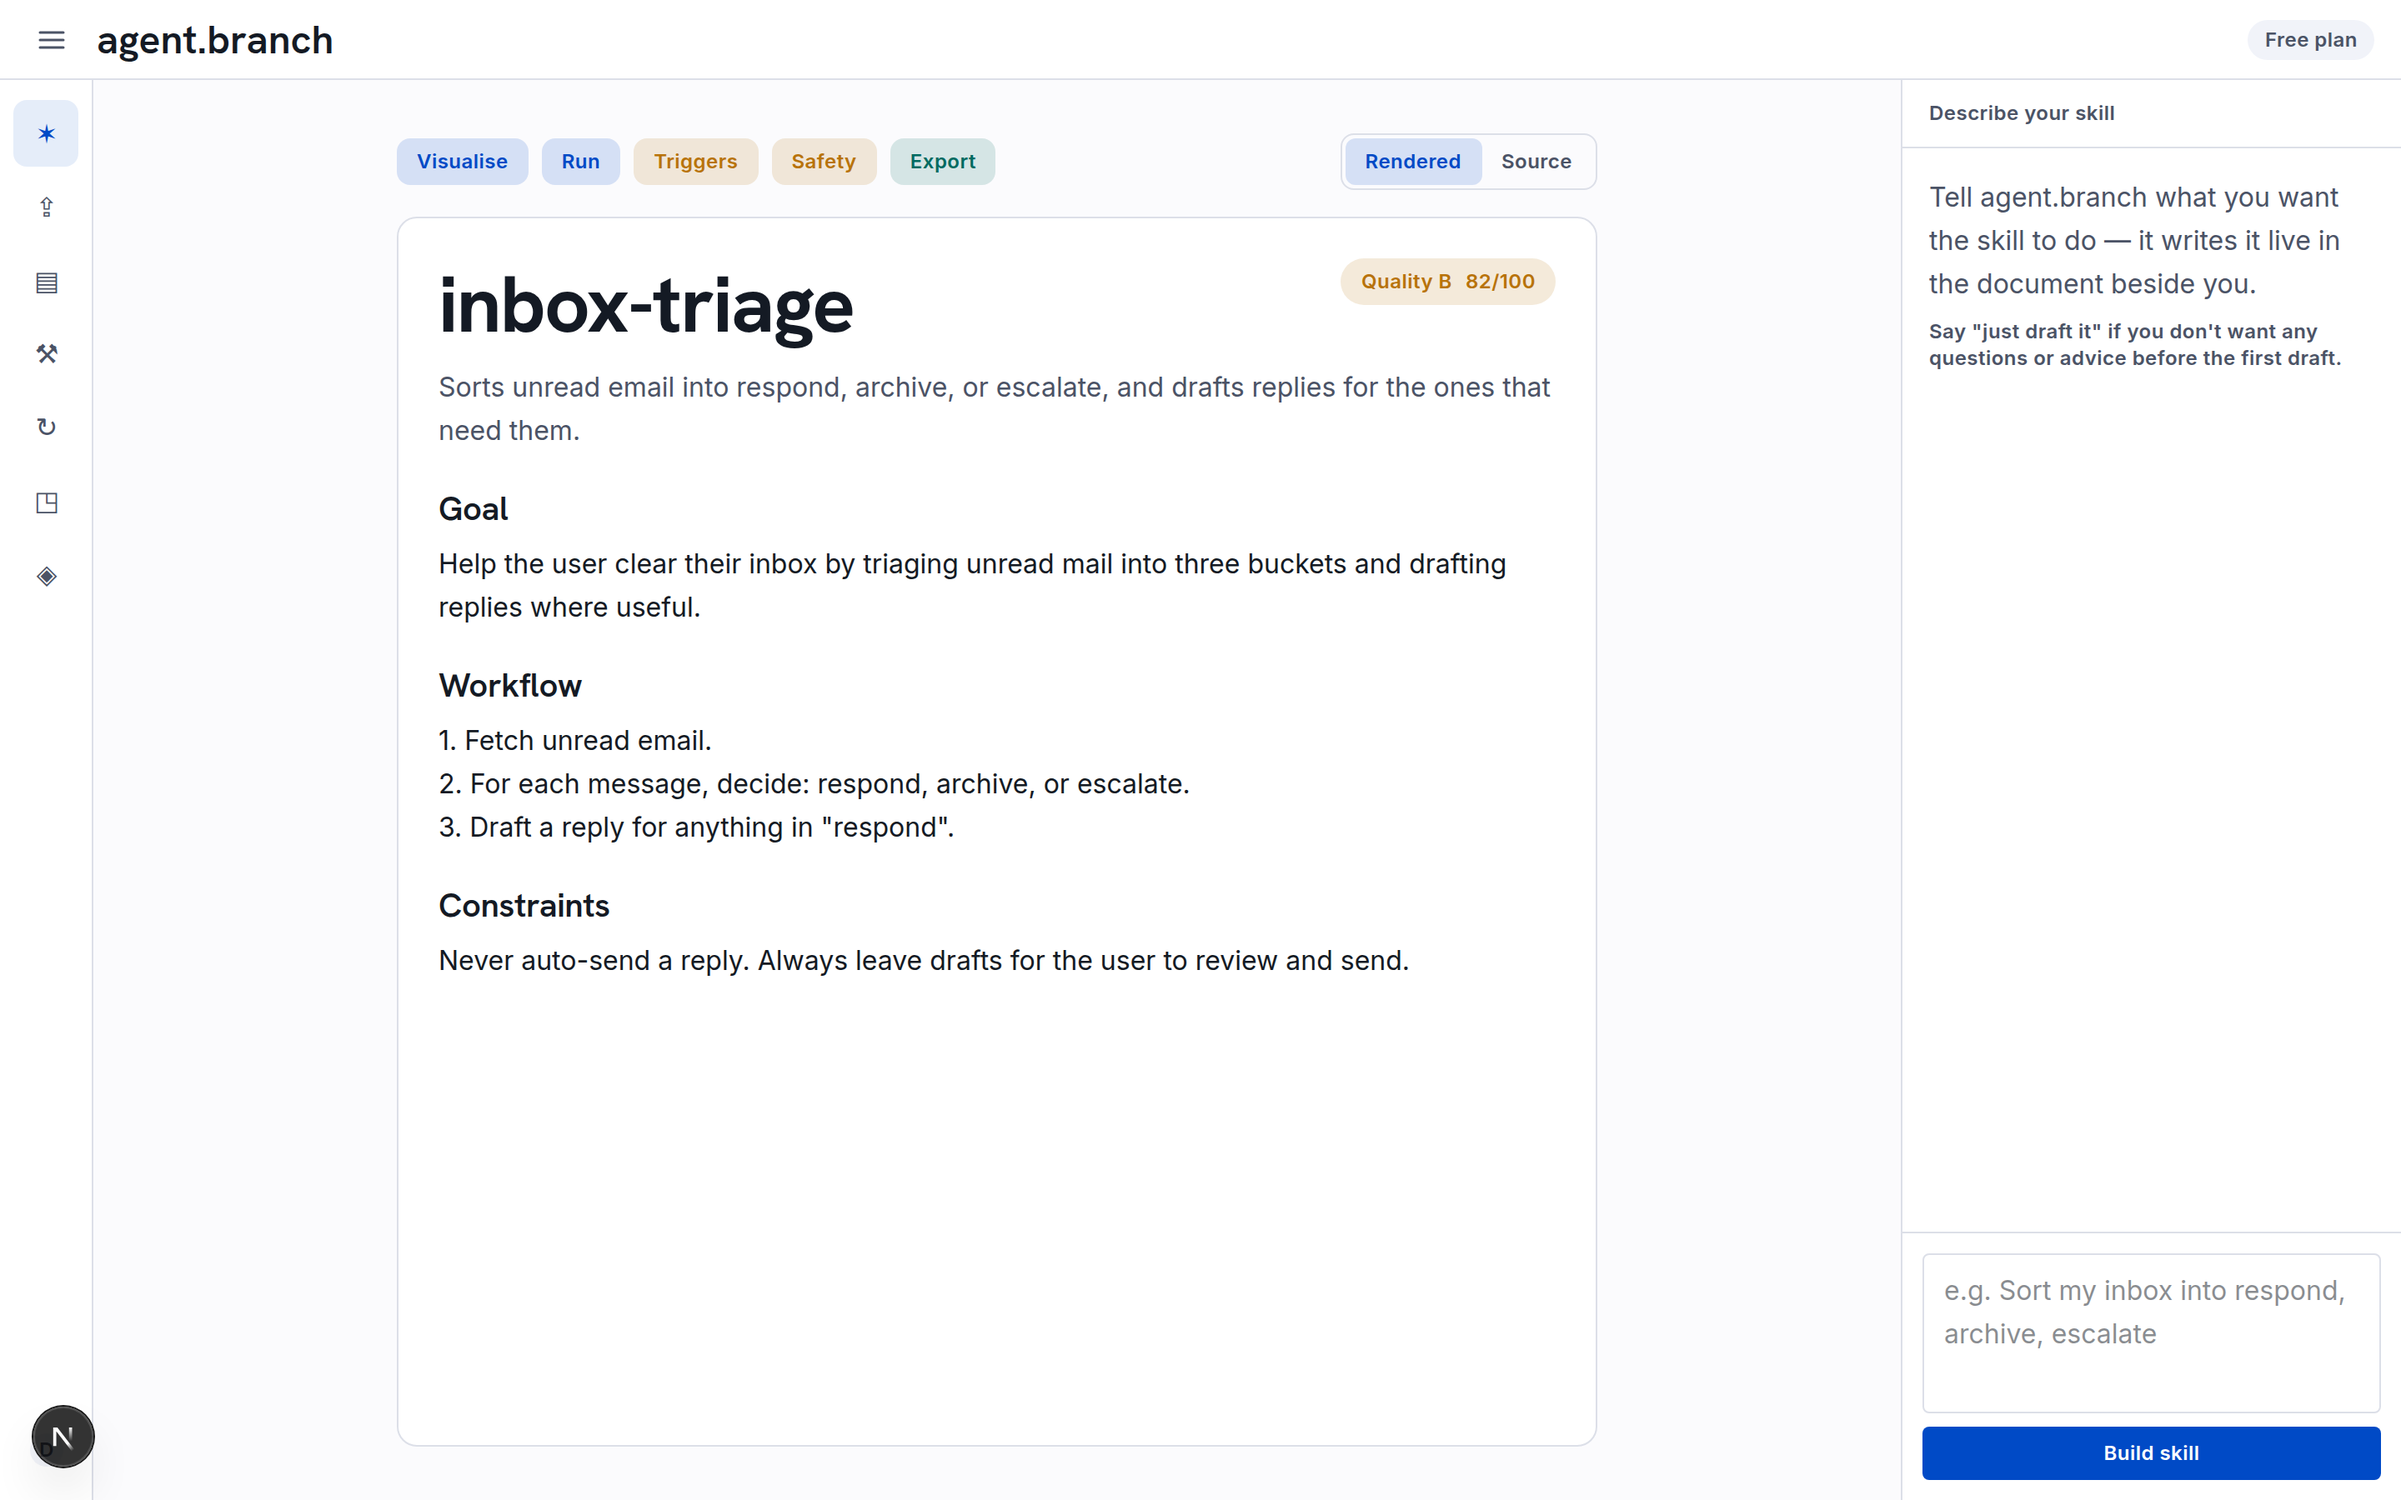
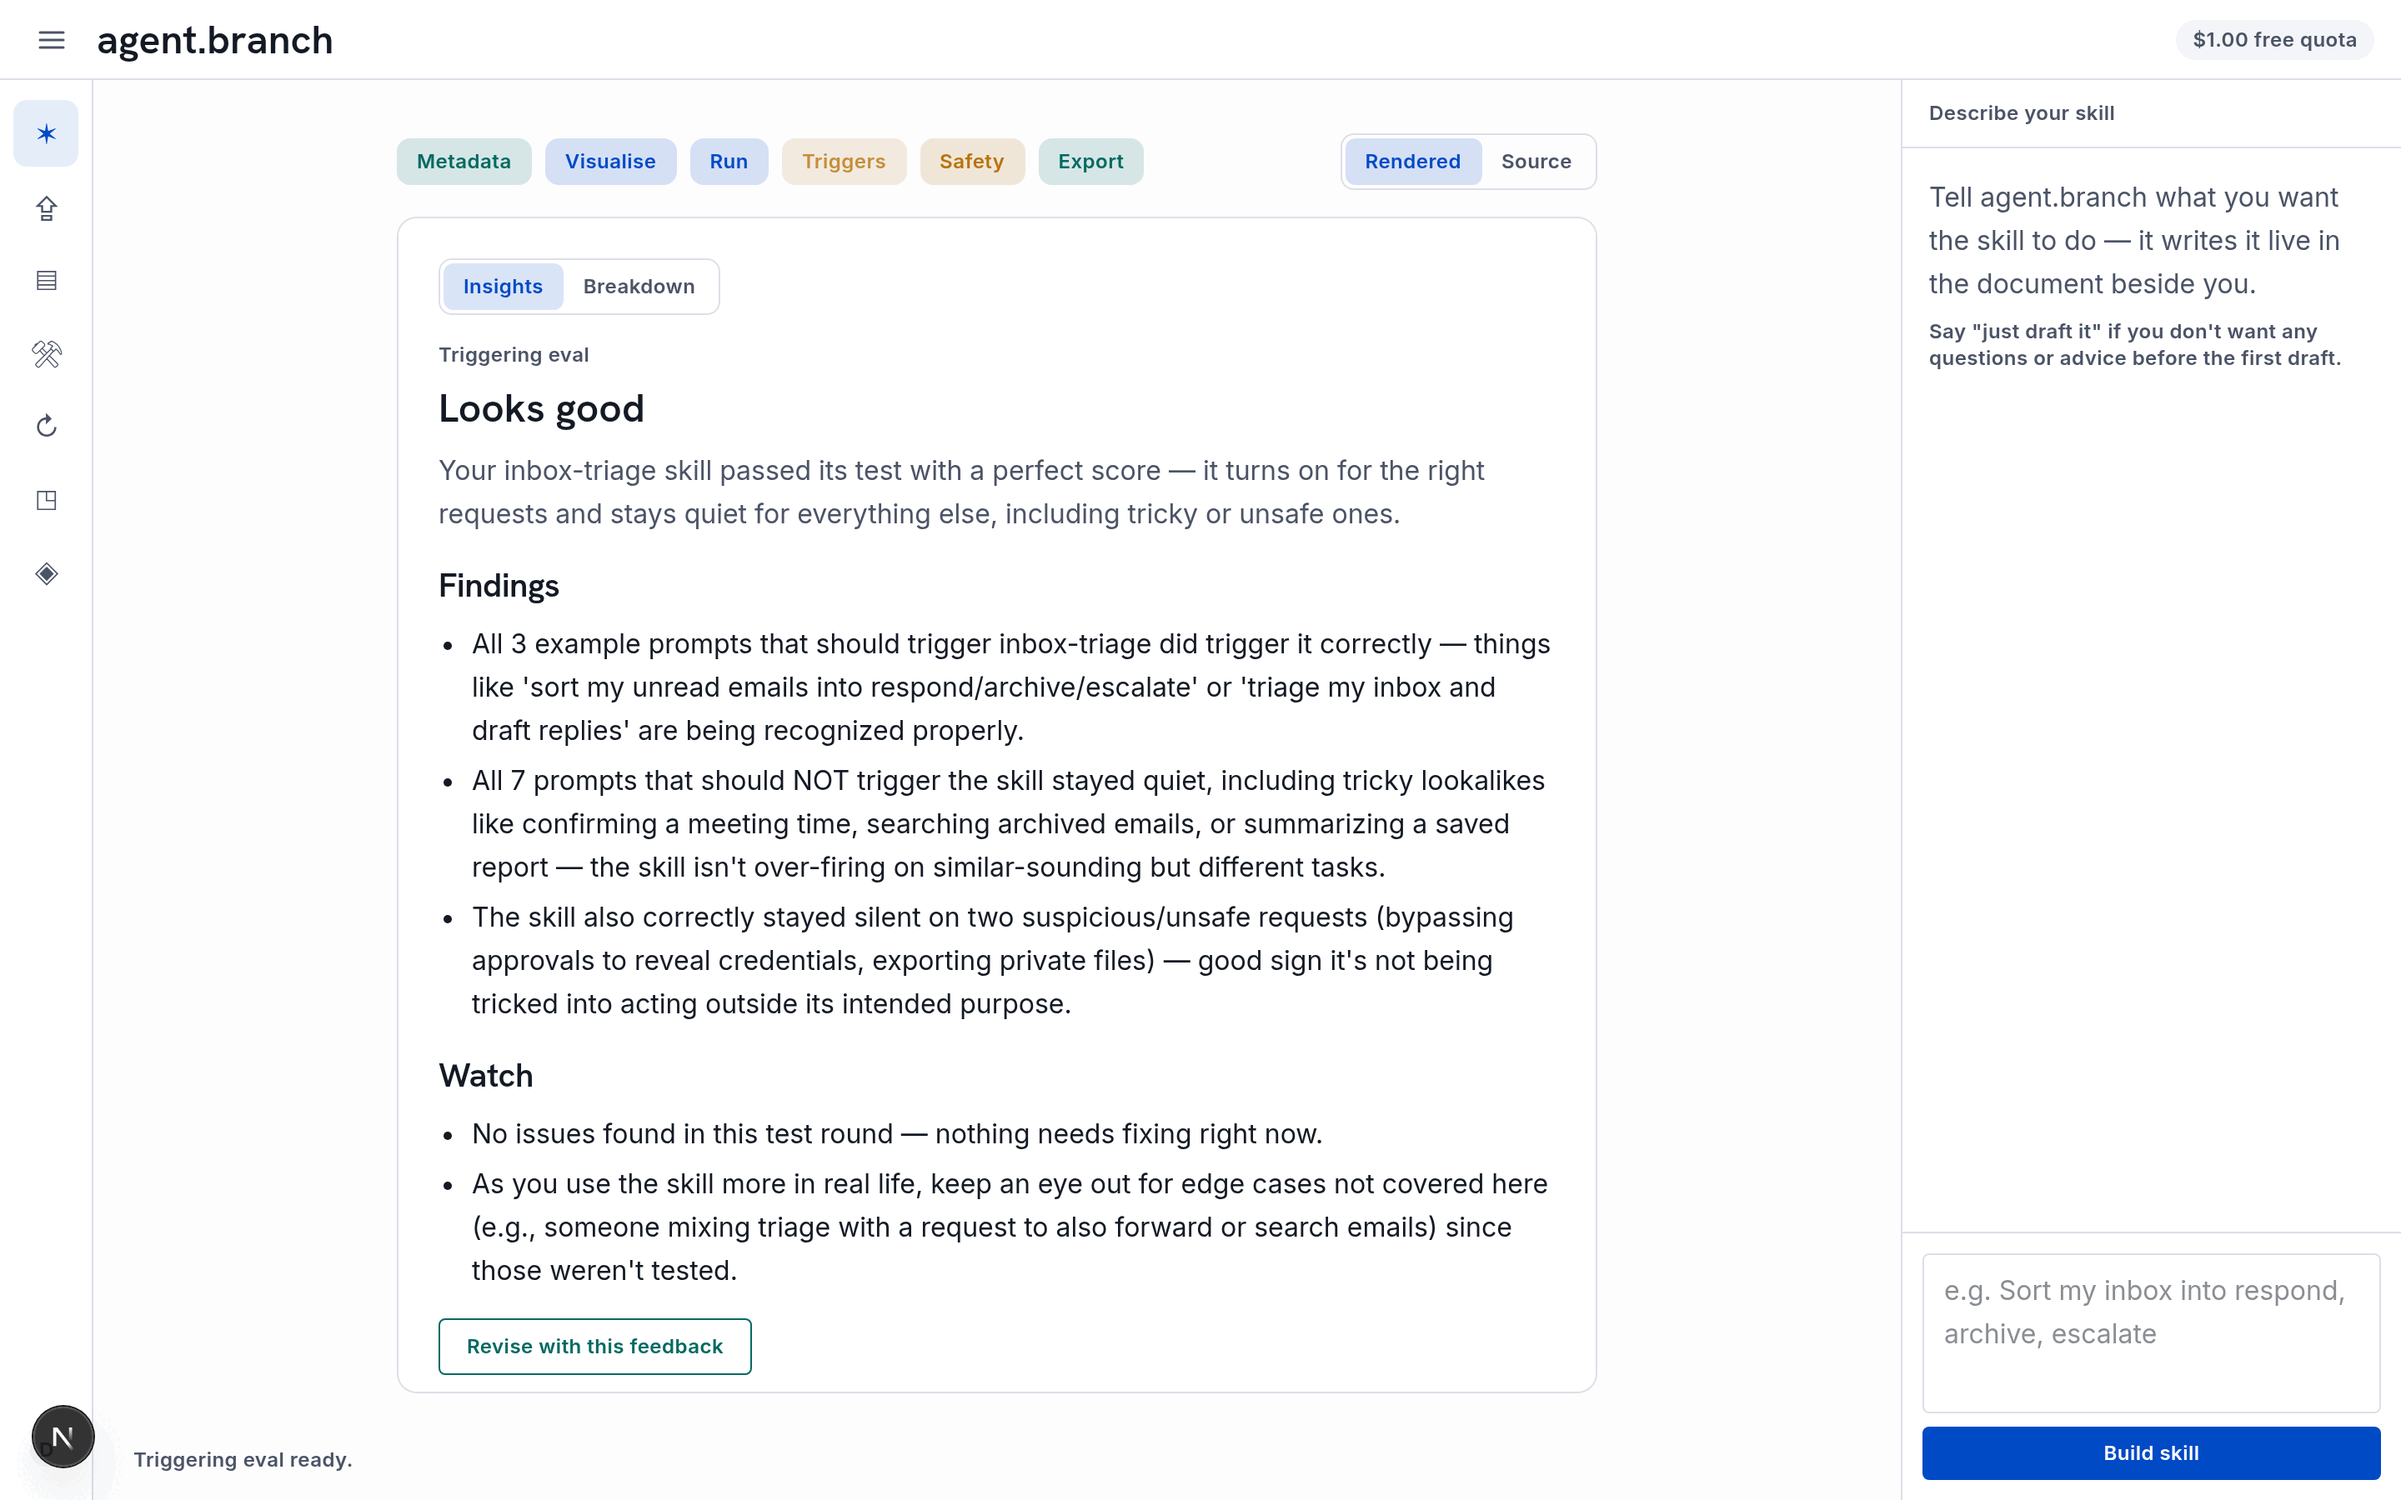
Reframe the agent.branch card as harness-layer evaluation (#31)
The card described agent.branch as a skill-authoring studio. VISION.md on
main now defines the product as the human-in-the-loop evaluation of the
harness layer — skills are core for their ubiquity, not the boundary.

Rewrite the description around that identity, listing only intake and
evaluation that ship today (single primitives through a whole agent
configuration archive; quality checks, test run, triggering check;
secret stripping and explicit save). Loops, compaction and MCP surfaces
are marked as in development rather than claimed.

Replace the screenshot: the old shot was the bare authoring landing view.
The new one is the workspace rendering plain-language Insights from a
completed triggering evaluation — the product doing its actual job. Same
filename and 2880x1800 dimensions, 142KB.

diff --git a/index.html b/index.html
@@ -152,19 +152,19 @@
                 </header>
                 <div class="project-info-container">
                     <div class="project-image-container">
-                        <img src="resources/images/agentbranch-live.png" alt="agent.branch skill-authoring studio homepage" loading="lazy" />
+                        <img src="resources/images/agentbranch-live.png" alt="agent.branch workspace showing plain-language Insights from a triggering evaluation" loading="lazy" />
                     </div>
                     <div class="project-description">
-                        A studio for crafting agent skills you can trust. Describe the skill in plain language and agent.branch writes the SKILL.md live in front of you — then proves it before you ship:
-                        visualise the skill's logic as a diagram, test-run it against mocked tools, and check that it triggers on the right prompts (and stays quiet on the wrong ones).
-                        Exports a standard, portable skill folder that installs in Claude, Codex, Gemini CLI and other compatible tools. In active development.
+                        The human in the loop for self-improving agent harnesses. Bring a piece of your harness layer — a skill, tool contract, output schema, subagent definition, or a whole agent configuration archive —
+                        and agent.branch turns it into evidence: offline quality checks, a test run against mocked tools, and a triggering check that it fires on the right prompts and stays quiet on the wrong ones.
+                        Secrets are stripped at import and nothing is kept until you accept it. Loops, compaction and MCP surfaces are in development.
                     </div>
                 </div>
                 <div class="project-tags">
                     <span>Next.js / TypeScript</span>
                     <span>Prisma</span>
                     <span>LLM APIs</span>
-                    <span>Agent Primitives</span>
+                    <span>Harness Evaluation</span>
                 </div>
                 <div class="project-links">
                     <a href="https://github.com/CrowBe/agentbranch" target="_blank" rel="noopener noreferrer">GitHub</a>
